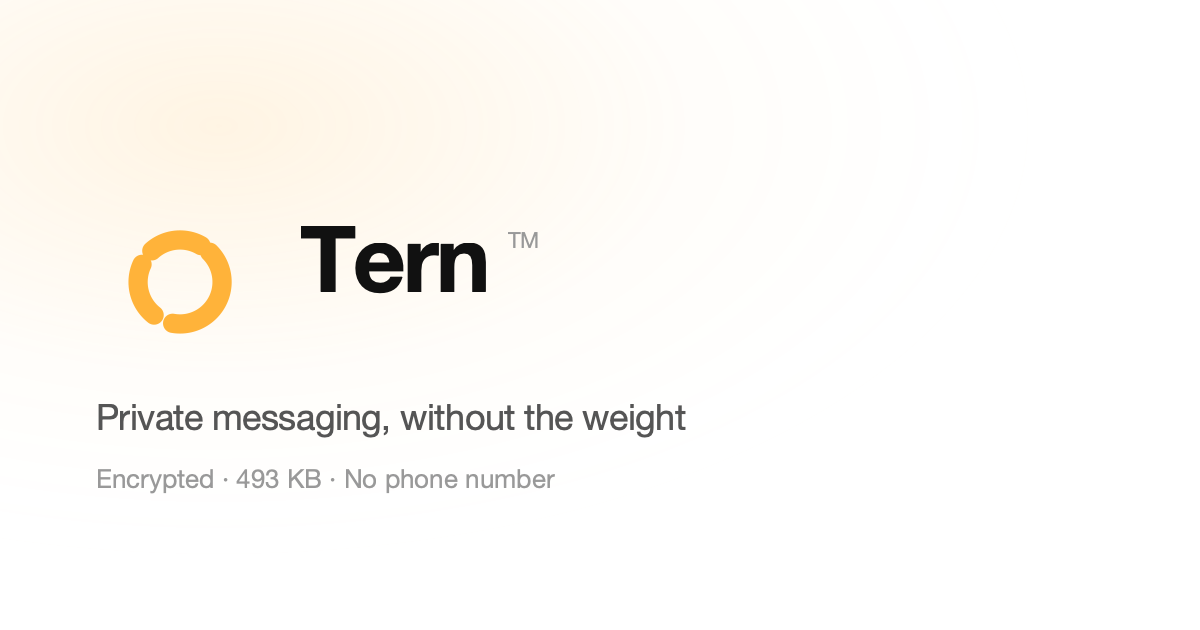
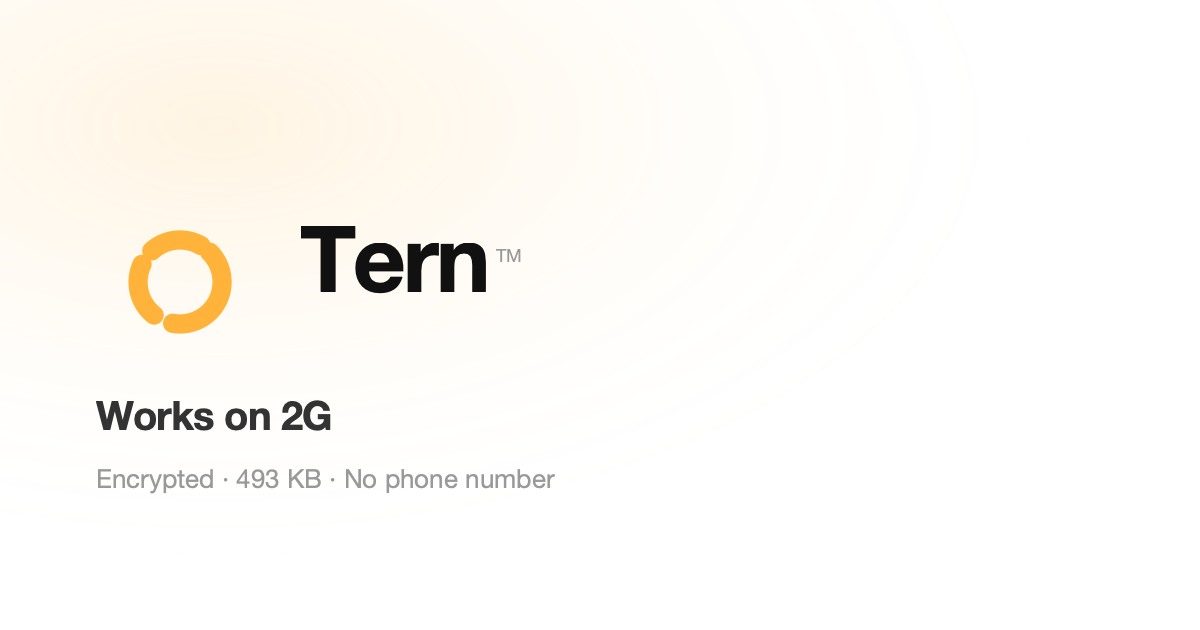
Fix landing audit issues; keep the three-arc mark.
noindex until store links are live, drop duplicate CTA labels,
tighten the trademark mark, relabel the handle row, and refresh
the share card with Works on 2G.

Changed region(s): [[0.0617, 0.6333, 0.5858, 0.6937], [0.4317, 0.3619, 0.4625, 0.3921], [0.4008, 0.3921, 0.4317, 0.4222]]

diff --git a/index.html b/index.html
@@ -5,29 +5,29 @@
 <meta name="viewport" content="width=device-width,initial-scale=1">
 <title>Tern — private messaging, without the weight</title>
 <meta name="description" content="Encrypted messaging in 493 KB. No phone number. Built for weak networks.">
-<meta name="robots" content="index, follow, max-image-preview:large, max-snippet:-1, max-video-preview:-1">
-<meta name="googlebot" content="index, follow, max-image-preview:large, max-snippet:-1, max-video-preview:-1">
+<meta name="robots" content="noindex, follow">
+<meta name="googlebot" content="noindex, follow">
 <link rel="canonical" href="https://tern.niilox.com/">
 <meta property="og:type" content="website">
 <meta property="og:site_name" content="Tern">
 <meta property="og:title" content="Tern — private messaging, without the weight">
 <meta property="og:description" content="Encrypted messaging in 493 KB. No phone number. Built for weak networks.">
 <meta property="og:url" content="https://tern.niilox.com/">
-<meta property="og:image" content="https://tern.niilox.com/img/tern-share.png">
-<meta property="og:image:secure_url" content="https://tern.niilox.com/img/tern-share.png">
+<meta property="og:image" content="https://tern.niilox.com/img/tern-share-2.png">
+<meta property="og:image:secure_url" content="https://tern.niilox.com/img/tern-share-2.png">
 <meta property="og:image:type" content="image/png">
 <meta property="og:image:width" content="1200">
 <meta property="og:image:height" content="630">
-<meta property="og:image:alt" content="Tern — private messaging, without the weight">
+<meta property="og:image:alt" content="Tern — Works on 2G. Encrypted, 493 KB, no phone number.">
 <meta name="twitter:card" content="summary_large_image">
 <meta name="twitter:url" content="https://tern.niilox.com/">
 <meta name="twitter:title" content="Tern — private messaging, without the weight">
 <meta name="twitter:description" content="Encrypted messaging in 493 KB. No phone number. Built for weak networks.">
-<meta name="twitter:image" content="https://tern.niilox.com/img/tern-share.png">
-<meta name="twitter:image:alt" content="Tern — private messaging, without the weight">
+<meta name="twitter:image" content="https://tern.niilox.com/img/tern-share-2.png">
+<meta name="twitter:image:alt" content="Tern — Works on 2G. Encrypted, 493 KB, no phone number.">
 <meta name="theme-color" content="#ffffff">
 <link rel="icon" href="/favicon.svg" type="image/svg+xml">
-<link rel="apple-touch-icon" href="/img/tern-share.png">
+<link rel="apple-touch-icon" href="/img/tern-share-2.png">
 <style>
 :root{--ink:#111;--mute:#777;--line:#e6e6e6;--sig:#ffb33a}
 *{box-sizing:border-box;margin:0}
@@ -37,7 +37,8 @@ font:16px/1.5 system-ui,-apple-system,BlinkMacSystemFont,"Segoe UI",Roboto,sans-
 
 .brand{display:flex;align-items:center;gap:11px;font-size:24px;font-weight:600;letter-spacing:-.022em}
 .brand svg{width:27px;height:27px;flex:none}
-.brand sup{font-size:.42em;font-weight:500;color:var(--mute);top:-.85em;position:relative;margin-left:1px}
+.brand .tm{font-size:.36em;font-weight:500;color:var(--mute);line-height:1;
+margin-left:.08em;position:relative;top:-.42em}
 
 h1{font-size:clamp(44px,8.5vw,80px);line-height:.94;letter-spacing:-.035em;
 font-weight:600;margin:120px 0 0;text-wrap:balance}
@@ -110,7 +111,7 @@ th,td{padding:14px 0}
 <body>
 <header class="brand">
 <svg width="27" height="27" viewBox="0 0 96 96" aria-hidden="true"><path d="M65 31A24 24 0 0 1 43.8 71.6" fill="none" stroke="#ffb33a" stroke-width="11" stroke-linecap="round"/><path d="M33.2 66.9A24 24 0 0 1 26.3 37.9" fill="none" stroke="#ffb33a" stroke-width="11" stroke-linecap="round"/><path d="M31.9 30.2A24 24 0 0 1 60 27.2" fill="none" stroke="#ffb33a" stroke-width="11" stroke-linecap="round"/></svg>
-tern<sup>&trade;</sup>
+tern<span class="tm" aria-hidden="true">&trade;</span>
 </header>
 
 <h1>Private messaging,<br>without the weight.</h1>
@@ -118,8 +119,8 @@ tern<sup>&trade;</sup>
 <p class="size"><span><b>493 KB</b> Android</span><span><b>635 KB</b> iPhone</span></p>
 
 <div class="get">
-<a class="on" href="#" aria-label="Download for Android"><span class="long">Download for Android</span><span class="short">Android</span></a>
-<a href="#" aria-label="Download for iPhone"><span class="long">Download for iPhone</span><span class="short">iPhone</span></a>
+<a class="on" href="#"><span class="long">Download for Android</span><span class="short">Android</span></a>
+<a href="#"><span class="long">Download for iPhone</span><span class="short">iPhone</span></a>
 </div>
 
 <section class="proof">
@@ -148,7 +149,7 @@ tern<sup>&trade;</sup>
 <tr><td>Download</td><td class="us">493 KB</td><td>100–300 MB</td></tr>
 <tr><td>Phone number</td><td class="us">No</td><td>Yes</td></tr>
 <tr><td>Encrypted</td><td class="us">Yes</td><td>Yes</td></tr>
-<tr><td>Tern ID</td><td class="us">Yes</td><td>No</td></tr>
+<tr><td>Handle</td><td class="us">Yes</td><td>No</td></tr>
 </tbody>
 </table>
 </section>

diff --git a/privacy/index.html b/privacy/index.html
@@ -20,7 +20,8 @@ font:16px/1.6 system-ui,-apple-system,BlinkMacSystemFont,"Segoe UI",Roboto,sans-
 .brand{display:flex;align-items:center;gap:11px;font-size:24px;font-weight:600;
 letter-spacing:-.022em;color:var(--ink);text-decoration:none}
 .brand svg{width:27px;height:27px;flex:none}
-.brand sup{font-size:.42em;font-weight:500;color:var(--mute);top:-.85em;position:relative;margin-left:1px}
+.brand .tm{font-size:.36em;font-weight:500;color:var(--mute);line-height:1;
+margin-left:.08em;position:relative;top:-.42em}
 .badge{margin-left:auto;font-size:12px;color:var(--mute);font-variant-numeric:tabular-nums}
 h1{font-size:clamp(36px,7vw,52px);line-height:1.1;letter-spacing:-.03em;font-weight:600;margin:0 0 12px}
 .meta{color:var(--mute);font-size:13px;margin:0 0 36px}
@@ -45,7 +46,7 @@ footer a:hover{color:var(--ink)}
 <header class="top">
   <a href="/" class="brand">
     <svg width="27" height="27" viewBox="0 0 96 96" aria-hidden="true"><path d="M65 31A24 24 0 0 1 43.8 71.6" fill="none" stroke="#ffb33a" stroke-width="11" stroke-linecap="round"/><path d="M33.2 66.9A24 24 0 0 1 26.3 37.9" fill="none" stroke="#ffb33a" stroke-width="11" stroke-linecap="round"/><path d="M31.9 30.2A24 24 0 0 1 60 27.2" fill="none" stroke="#ffb33a" stroke-width="11" stroke-linecap="round"/></svg>
-    tern<sup>&trade;</sup>
+    tern<span class="tm" aria-hidden="true">&trade;</span>
   </a>
   <span class="badge" id="w"></span>
 </header>

diff --git a/terms/index.html b/terms/index.html
@@ -20,7 +20,8 @@ font:16px/1.6 system-ui,-apple-system,BlinkMacSystemFont,"Segoe UI",Roboto,sans-
 .brand{display:flex;align-items:center;gap:11px;font-size:24px;font-weight:600;
 letter-spacing:-.022em;color:var(--ink);text-decoration:none}
 .brand svg{width:27px;height:27px;flex:none}
-.brand sup{font-size:.42em;font-weight:500;color:var(--mute);top:-.85em;position:relative;margin-left:1px}
+.brand .tm{font-size:.36em;font-weight:500;color:var(--mute);line-height:1;
+margin-left:.08em;position:relative;top:-.42em}
 .badge{margin-left:auto;font-size:12px;color:var(--mute);font-variant-numeric:tabular-nums}
 h1{font-size:clamp(36px,7vw,52px);line-height:1.1;letter-spacing:-.03em;font-weight:600;margin:0 0 12px}
 .meta{color:var(--mute);font-size:13px;margin:0 0 36px}
@@ -45,7 +46,7 @@ footer a:hover{color:var(--ink)}
 <header class="top">
   <a href="/" class="brand">
     <svg width="27" height="27" viewBox="0 0 96 96" aria-hidden="true"><path d="M65 31A24 24 0 0 1 43.8 71.6" fill="none" stroke="#ffb33a" stroke-width="11" stroke-linecap="round"/><path d="M33.2 66.9A24 24 0 0 1 26.3 37.9" fill="none" stroke="#ffb33a" stroke-width="11" stroke-linecap="round"/><path d="M31.9 30.2A24 24 0 0 1 60 27.2" fill="none" stroke="#ffb33a" stroke-width="11" stroke-linecap="round"/></svg>
-    tern<sup>&trade;</sup>
+    tern<span class="tm" aria-hidden="true">&trade;</span>
   </a>
   <span class="badge" id="w"></span>
 </header>
